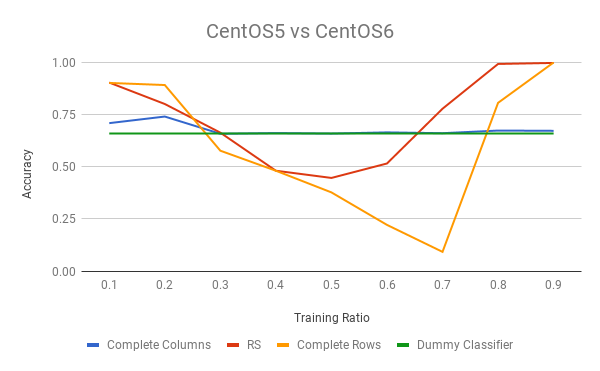
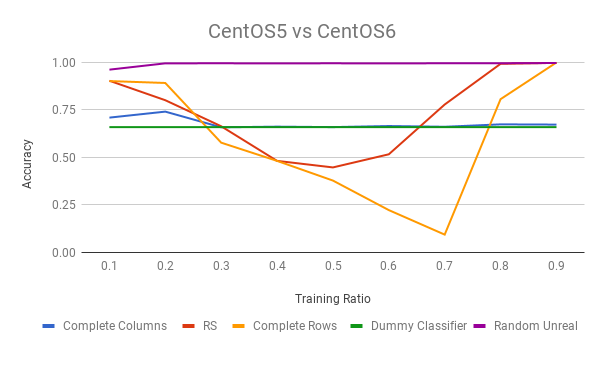
Uppdated the ALS-Failure figures

diff --git a/paper.tex b/paper.tex
@@ -107,8 +107,7 @@ In each method, we included the first row of the matrix (first
 generated file of each subject) and a random column (all files of a 
 random subject) to avoid cold start issues. 
 
-% Explain all sampling techniques (maybe rename 4, 5, and 6)
-% 1. random unreal (baseline)
+% 0. random unreal (baseline)
 \paragraph{Random Unreal}
 The training set is sampled randomly with no restriction, that is,
 regardless of the file generation time. This method will be used as a
@@ -210,21 +209,36 @@ was lower than 0.01.\\
 
 \paragraph{Random File Numbers (Triangular) -- RFNT}
 The number of files selected for every subject is randomly selected in
-a triangular distribution with parameters \textit{\textbf{a}}, \textit{\textbf{c}} and \textit{\textbf{b}} where \textit{\textbf{b}} is set to $N_{f}$ and the other two parameters could be set according to two different approaches. By considering $\alpha$ as training ratio, the distribution average equals to $\alpha N_{f}$ which that means f  $\alpha$ less than $\nicefrac{1}{3}$ the lower limmit \textit{\textbf{a}} would get a negative value in this regard, therefore to avoid this issue the uniform distribution is applied for $\alpha < \nicefrac{1}{3}$. But for $\alpha \leq \nicefrac{1}{3}$ the following approaches are applicable. This distribution aims at sampling files produced towards the end of the pipeline execution.
+a triangular distribution with parameters \textit{\textbf{a}}, \textit{\textbf{c}} 
+and \textit{\textbf{b}} where \textit{\textbf{b}} is set to $N_{f}$ and the other 
+two parameters could be set according to two different approaches. By considering $\alpha$ 
+as training ratio, the distribution average equals to $\alpha N_{f}$ which that means 
+for $\alpha$ less than $\nicefrac{1}{3}$ the lower limmit \textit{\textbf{a}} would 
+get a negative value in this regard, therefore to avoid this issue the uniform distribution 
+is applied for $\alpha < \nicefrac{1}{3}$. But for $\alpha \leq \nicefrac{1}{3}$ the following 
+approaches are applicable. This distribution aims at sampling files produced towards 
+the end of the pipeline execution.
+
 Two approches are tried to apply this method:
 \begin{enumerate}
 \item Largest-a (RFNT-L):  
- This approach of triangular distribution with parameters \textit{\textbf{a}}, \textit{\textbf{c}} and \textit{\textbf{b}} where \textit{\textbf{b}} is set to $N_{f}$ and the two other parameters are reperesent the limmited bond and mode of the distribution respectively. The \textit{\textbf{a}} equals to $\nicefrac {N_{f}(3\alpha-1)}{2}$ while \textit{\textbf{c}} is considered as equal as \textit{\textbf{a}}, $(\textit{\textbf{c}} = \textit{\textbf{a}})$.\\
+This approach of triangular distribution with parameters \textit{\textbf{a}}, \textit{\textbf{c}} 
+and \textit{\textbf{b}} where \textit{\textbf{b}} is set to $N_{f}$ and the two other 
+parameters are reperesent the limmited bond and mode of the distribution respectively. 
+The \textit{\textbf{a}} equals to $\nicefrac {N_{f}(3\alpha-1)}{2}$ while \textit{\textbf{c}} 
+is considered as equal as \textit{\textbf{a}}, $(\textit{\textbf{c}} = \textit{\textbf{a}})$.\\
 
 In this approach there is a concern to eliminate the possibility of having less 
-than the two first generated files of any subjects in the sampled training set. 
+than the first two generated files of any subjects in the sampled training set. 
 The possibility of missing some subjects in training set can happen to some of them due to 
 random selection of subjects or even meeting the determined training ratio before 
 having the chance of being selected.
 
 \item Smallest-a (RFNT-S):
-This approach of triangular distribution with parameters \textit{\textbf{a}}, \textit{\textbf{c}} and \textit{\textbf{b}} where \textit{\textbf{b}} is set to $N_{f}$ and the
- two other parameters are reperesent the limmited bond and mode of the distribution respectively. The \textit{\textbf{a}} is set to $0$  while \textit{\textbf{c}} equals to $N_{f}(3\alpha-1)$.\\
+This approach of triangular distribution with parameters \textit{\textbf{a}}, \textit{\textbf{c}} 
+and \textit{\textbf{b}} where \textit{\textbf{b}} is set to $N_{f}$ and the
+two other parameters are reperesent the limmited bond and mode of the distribution respectively. 
+The \textit{\textbf{a}} is set to $0$  while \textit{\textbf{c}} equals to $N_{f}(3\alpha-1)$.\\
 In this approach of utilizing triangular distribution,despite of Largest-a approch, there is a possibility 
 that some subjects be reperesented in the training set just by their first generated file and no more files.
 
@@ -278,6 +292,7 @@ $0.34$, $0.79$ and $0.79$ respectively.
 % 4. fmriVolume
 
 \section{Results}
+
 TP: The number of cases correctly predicted as occurance of difference \\
 FP: The number of cases incorrectly predicted as occurance of difference \\
 TN: The number of cases correctly predicted as no occurance of difference \\ 
@@ -299,156 +314,111 @@ The experimental results have been obtained from four different approaches:\\
 2. Employing Bias as well as ALS technique (ALS-Bias)\\
 3. Using just Bias (Bias)\\
 4. Results stemmed from ommiting the impact of predicted value of canstant files \\
-In all above approaches, dummy classifier which makes predictions using simple rules\cite{URL}has been used to indicate that how much predicted value would tend to be anticipate as the dominent value of the utility matrix. This classifier is considered as an accuracy evaluator since the binary utility matrix is consist of \{1,0\} which respectively represent whether a difference has been observed between the same files in two different conditions (by comapring their checksums) or not.
-With the knowledge of the fact that Random Unreal method is not applicable into our case study we used its results as the comparision between the unrealistic method and realistics ones. In this regard, the aformentioned approaches are propossed and tried to lessen the gaps between the best results from random-unreal and the applied one.
+In all above approaches, dummy classifier which makes prediction by using simple rules\cite{URL}
+has been used to indicate that how much the predicted value would tend to be anticipate 
+as the dominent value of the utility matrix. This classifier is considered as an 
+accuracy evaluator since the binary utility matrix is consist of \{1,0\} which  
+respectively represent whether a difference has been observed between the same files 
+in two different conditions (by comapring their checksums) or not.
+With the knowledge of the fact that Random Unreal method is not applicable into our 
+case study, we used its results as the comparision between the unrealistic method 
+and realistics ones. In this regard, the aformentioned approaches are propossed and 
+tried to lessen the gaps between the best results from random-unreal and the applied one.
 
 
 \subsection{ALS without biases}
 In this phase of the experiment, the Alternating Least Squares techniq of Collaborative Filtering is applied for all provided methods. \todo{should I talk about ALS in here?}
-\subsubsection{Random Unreal}
-Figure~\ref{fig:unreal method} represents
-The accuracy graph of Random Unreal method with comparision to dummy
-classifier over the increasement of the training ratio.
+Figure~\ref{fig:ALS-Failure} represents
+The accuracy graph of four diferent Complete Columns, RS, Complete Rows and Random Unreal methods.The comparision to dummy
+classifier over the increasement of the training ratio can be seen in this figure.
 \begin{figure}[h!]
         \centering
         \begin{subfigure}[b]{0.8\linewidth}
-                \includegraphics[width=\columnwidth]{figures/ALS/unreal-ALS-5vs6-PFS}
+                \includegraphics[width=\columnwidth]{figures/ALS/AlS-Failure-5vs6}
         \end{subfigure}
         \begin{subfigure}[b]{0.8\linewidth}
-                \includegraphics[width=\columnwidth]{figures/ALS/unreal-ALS-5vs7-PFS}
+                \includegraphics[width=\columnwidth]{figures/ALS/AlS-Failure-5vs7}
         \end{subfigure}
         \begin{subfigure}[b]{0.8\linewidth}
-                \includegraphics[width=\columnwidth]{figures/ALS/unreal-ALS-6vs7-PFS}
+                \includegraphics[width=\columnwidth]{figures/ALS/AlS-Failure-6vs7}
         \end{subfigure}
-        \caption{Average performance of Random Unreal methods in three different condition pairs}
-        \label{fig:unreal method}
+        \caption{Average performance of Complete Columns, RS, Complete Rows and Random Unreal methods in three different condition pairs}
+        \label{fig:ALS-Failure}
 \end{figure}
-This method has a great performance with absolute accouracy of more than $0.95$ even by accessing to small taining size of 10 percent. As it mentioned earlier this method is not applicable in pipline due to timestamp cosideration but it is a good criteria to estmiate the performance of other methods and try to modify the proposed methods in order to their accuracy be as colsed as possible to the Random Unreal method ones.  
+
+\subsubsection{Random Unreal}
+This method has a great performance with absolute accouracy of more than $0.95$ 
+even by accessing to small taining size of 10 percent. As it mentioned earlier 
+this method is not applicable in pipline due to timestamp cosideration but it 
+is a good criteria to estmiate the performance of other methods and try to modify 
+the proposed methods in order to their accuracy be as colsed as possible to the 
+Random Unreal method ones.  
 
 
 \subsubsection{Complete Columns}
-
-Figure~\ref{fig:columns method} represents
-the accuracy graph of Complete Columns method with comparision to dummy
-classifier over the increasement of the training ratio.
-As it can be seen Complete Columns method has
+As it shown in Figure~\ref{fig:ALS-Failure} the Complete Columns method has
 almost a constant accuracy even if the training ratio increased and it
 is almost two times less than dummy classifier in more differentiated
 condition pairs (CentOS5 vs CentOS7 and CentOS6 vs CentOS7). But in the
 best case which it means in similar conditions the Complete Columns
 accuracy is as much accurate as the Dummy classifier which is $0.65$
 percent.
-
-\begin{figure}[h!]
-        \centering
-        \begin{subfigure}[b]{0.8\linewidth}
-                \includegraphics[width=\columnwidth]{figures/ALS/columns-ALS-5vs6-PFS}
-        \end{subfigure}
-        \begin{subfigure}[b]{0.8\linewidth}
-                \includegraphics[width=\columnwidth]{figures/ALS/columns-ALS-5vs7-PFS}
-        \end{subfigure}
-        \begin{subfigure}[b]{0.8\linewidth}
-                \includegraphics[width=\columnwidth]{figures/ALS/columns-ALS-6vs7-PFS}
-        \end{subfigure}
-        \caption{Average performance of Complete Columns methods in three different condition pairs}
-        \label{fig:columns method}
-\end{figure}
- 
-
-
+\\
 \subsubsection{Complete Rows}
-Figure~\ref{fig:rows method} represents
-the accuracy graph of Complete Rows method with comparision to dummy
-classifier over the increasement of the training ratio.
-As it can be observed, This method has some flactuation over the gowth of training set size. These falactuations are more frequent in condition pairs which have higher difference positive ratio. Also by enlarging the training ratio specially between $0.3$ to $0.7$, we can see dummy classifier has better results than Complete Rows ones. In other words despite of better performance of Complete Rows than dummy classifier at the last 10 percent of the graph, its accuracies are less than dummy classifiers ones.  
-\begin{figure}[h!]
-        \centering
-        \begin{subfigure}[b]{0.8\linewidth}
-                \includegraphics[width=\columnwidth]{figures/ALS/rows-ALS-5vs6-PFS}
-        \end{subfigure}
-        \begin{subfigure}[b]{0.8\linewidth}
-                \includegraphics[width=\columnwidth]{figures/ALS/rows-ALS-5vs7-PFS}
-        \end{subfigure}
-        \begin{subfigure}[b]{0.8\linewidth}
-                \includegraphics[width=\columnwidth]{figures/ALS/rows-ALS-6vs7-PFS}
-        \end{subfigure}
-        \caption{Average performance of Complete Rows methods in three different condition pairs}
-        \label{fig:rows method}
-\end{figure}
+As it can be observed, Figure~\ref{fig:ALS-Failure}, This method has some 
+flactuation over the gowth of training set size. These falactuations are more 
+frequent in condition pairs which have higher difference positive ratio. 
+Also by enlarging the training ratio specially between $0.3$ to $0.7$, 
+we can see dummy classifier has better results than Complete Rows ones. 
+In other words despite of better performance of Complete Rows than 
+dummy classifier at the last 10 percent of the graph, its accuracies 
+are less than dummy classifiers ones.  
+\\
 \subsubsection{Random Subjects-RS}
-Figure~\ref{fig:RS method} represents
-the accuracy graph of RS method with comparision to dummy
-classifier over the increasement of the training ratio.
-Same to the Complete Row method, RS method has some flactuation but not as frequent as Complete Rows method. Althogh there are some up and down trends specialy with training ratio range of $0.2$ to $0.6$ but its constant growth trend after training ratio $0.3$ in condition pairs with high difference positive ratio is considerable. The method can be $0.99$ percent accurate when it has over 70 percent of the data however this accuracy can be achived with higher training ratio (over 80 percent) for C5C6.  
+The performance of RS method is represented in Figure~\ref{fig:ALS-Failure}.
+Same to the Complete Row method, RS method has some flactuation but not as frequent 
+as Complete Rows method. Althogh there are some up and down trends specialy with 
+training ratio range of $0.2$ to $0.6$ but its constant growth trend after 
+training ratio $0.3$ in condition pairs with high difference positive ratio is considerable.
+The method can be $0.99$ percent accurate when it has over 70 percent of the data however 
+this accuracy can be achived with higher training ratio (over 80 percent) for C5C6.  
+\\
+\\
+\noindent Figure~\ref{fig:ALS-Succeed} represents
+the accuracy graph of all Random kind methods with comparision to dummy
+classifier over the increasement of the training ratio.\\
 \begin{figure}[h!]
         \centering
         \begin{subfigure}[b]{0.8\linewidth}
-                \includegraphics[width=\columnwidth]{figures/ALS/RS-ALS-5vs6-PFS}
+                \includegraphics[width=\columnwidth]{figures/ALS/ALS-Succeed-5vs6}
         \end{subfigure}
         \begin{subfigure}[b]{0.8\linewidth}
-                \includegraphics[width=\columnwidth]{figures/ALS/RS-ALS-5vs7-PFS}
+                \includegraphics[width=\columnwidth]{figures/ALS/ALS-Succeed-5vs7}
         \end{subfigure}
         \begin{subfigure}[b]{0.8\linewidth}
-                \includegraphics[width=\columnwidth]{figures/ALS/RS-ALS-6vs7-PFS}
-        \end{subfigure}
-        \caption{Average performance of Complete RS methods in three different condition pairs}
-        \label{fig:RS method}
-\end{figure}
-\subsubsection{RandomFile Numbers(Uniform) - RFNU}
-Figure~\ref{fig:RFNU method} represents
-the accuracy graph of RFNU method with comparision to dummy
-classifier over the increasement of the training ratio.
-The graphs show a continuous rise in the accuracy trend in all condition pairs however a 0.03 drop is recorder in C6C7 beteen training ratio size of $0.8$ to $0.9$. This metod takes over the dummy accuracy after having a training size over 40 percent in C5vsC7 and C6vsC7 but it always shows better acuracy than dummy classifier ($0.73$ percent with traininfg ratio of $0.1$)    
-\begin{figure}[h!]
-        \centering
-        \begin{subfigure}[b]{0.8\linewidth}
-                \includegraphics[width=\columnwidth]{figures/ALS/RFNU-ALS-5vs6-PFS}
-        \end{subfigure}
-        \begin{subfigure}[b]{0.8\linewidth}
-                \includegraphics[width=\columnwidth]{figures/ALS/RFNU-ALS-5vs7-PFS}
-        \end{subfigure}
-        \begin{subfigure}[b]{0.8\linewidth}
-                \includegraphics[width=\columnwidth]{figures/ALS/RFNU-ALS-6vs7-PFS}
+                \includegraphics[width=\columnwidth]{figures/ALS/ALS-Succeed-6vs7}
         \end{subfigure}
         \caption{Average performance of RFNU methods in three different condition pairs}
-        \label{fig:RFNU method}
+        \label{fig:ALS-Succeed}
 \end{figure}
-\subsubsection{RNFT-L}
-Figure~\ref{fig:RFNT-L method} represents
-the accuracy graph of RFNT-L method with comparision to dummy
-classifier over the increasement of the training ratio.
-\begin{figure}[h!]
-        \centering
-        \begin{subfigure}[b]{0.8\linewidth}
-                \includegraphics[width=\columnwidth]{figures/ALS/RFNT-L-ALS-5vs6-PFS}
-        \end{subfigure}
-        \begin{subfigure}[b]{0.8\linewidth}
-                \includegraphics[width=\columnwidth]{figures/ALS/RFNT-L-ALS-5vs7-PFS}
-        \end{subfigure}
-        \begin{subfigure}[b]{0.8\linewidth}
-                \includegraphics[width=\columnwidth]{figures/ALS/RFNT-L-ALS-6vs7-PFS}
-        \end{subfigure}
-        \caption{Average performance of RFNT-L methods in three different condition pairs}
-        \label{fig:RFNT-L method}
-\end{figure}
+\subsubsection{Random File Numbers(Uniform) - RFNU}
+The continuous rise of RFNU accuracy trend can be observed in Figure~\ref{fig:ALS-Succeed}.
+However a 0.03 drop is recorded in C6C7 between training ratio size of $0.8$ to $0.9$. 
+This method takes over the dummy accuracy after having a training size more than 40 percent 
+in condition pairs of C5vsC7 and C6vsC7 but it always shows better acuracy than 
+dummy classifier ($0.73$ percent with traininfg ratio of $0.1$).    
+
+As it mentioned earlier, for $\alpha < \nicefrac{1}{3}$ RFNT approaches are not applicable, 
+therefor for training ratio less than $0.4$ RFNU method is employed. As a result, in terms of 
+evaluating the performance of RFNT-L and RFNT-S approches, only those accuracy results are 
+considered which their training set are equal or geather than 0.4 percent of the whole utility matrix. 
+
+\subsubsection{RFNT-L}
+Figure~\ref{fig:ALS-Succeed} 
+
 \subsubsection{RFNT-S}
-Figure~\ref{fig:RFNT-S method} represents
-the accuracy graph of RFNTS method with comparision to dummy
-classifier over the increasement of the training ratio.
-\begin{figure}[h!]
-        \centering
-        \begin{subfigure}[b]{0.8\linewidth}
-                \includegraphics[width=\columnwidth]{figures/ALS/RFNT-S-ALS-5vs6-PFS}
-        \end{subfigure}
-        \begin{subfigure}[b]{0.8\linewidth}
-                \includegraphics[width=\columnwidth]{figures/ALS/RFNT-S-ALS-5vs7-PFS}
-        \end{subfigure}
-        \begin{subfigure}[b]{0.8\linewidth}
-                \includegraphics[width=\columnwidth]{figures/ALS/RFNT-S-ALS-6vs7-PFS}
-        \end{subfigure}
-        \caption{Average performance of RFNT-S methods in three different condition pairs}
-        \label{fig:RFNT-S method}
-\end{figure}
+Figure~\ref{fig:ALS-Succeed} 
+
 % General conclution on results of ALS without Bias 
 In general the accuracy pattern of the two Complete Rows and 
 RS methods show similar decline and grow behavior over the 
@@ -578,7 +548,7 @@ classifier over the increasement of the training ratio.
 \section{Conclusion}
 
 % Summary of the results and discussion. The take-home message.
-
+%%%%%% why there is a drop in ALS-RFNT-L with 60% ratio?  
 \section*{Acknowledgment}
 
 \bibliographystyle{IEEEtran}
